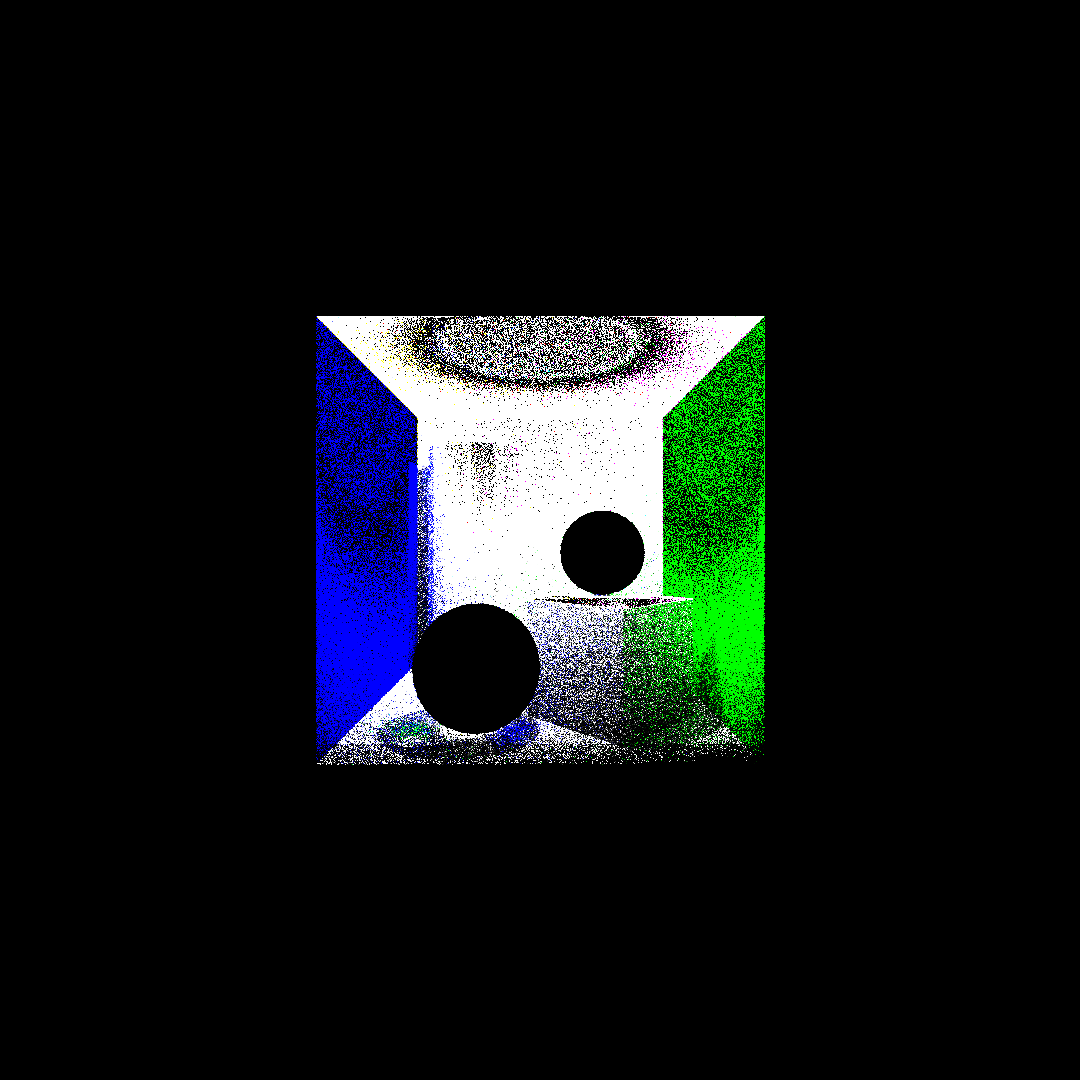
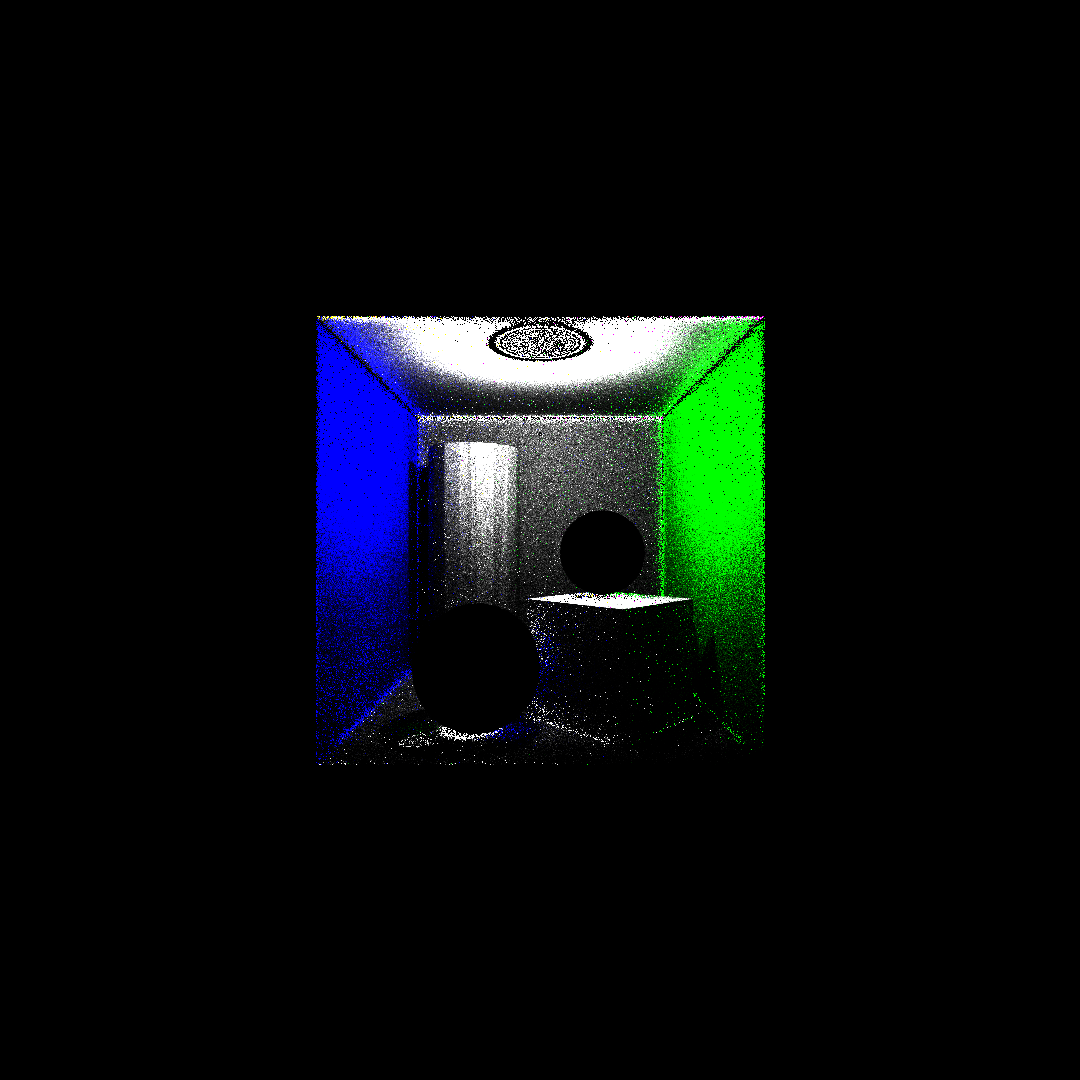
normalize light path camera sampling values now consider the G factor in the light transport equation

Changed region(s): [[0.275, 0.275, 0.7333, 0.7028]]

diff --git a/SourceCode/CRTPathtracer.cpp b/SourceCode/CRTPathtracer.cpp
@@ -205,11 +205,13 @@ std::vector<PathVertex> CRTPathtracer::getLigthPath(const CRTLight& light) const
 	vert.point = light.getPosition();
 	lightPath.push_back(vert);
 	int depth = 0;
+	float cosEmitting = 1.0f;
 	CRTVector randomDir = randomSphereSample();
 	CRTRay currRay{ light.getPosition(), randomDir, RayType::LIGHT, 0 };
 	while (depth < LIGHT_PATH_LENGHT) {
 		Intersection ix = rayTraceAccelerated(currRay);
 		if (ix.hitObjectIndex == INVALID_IND) return lightPath;
+		vert.normal = scene->getMaterial(ix.materialIndex).smoothShading ? ix.smoothNormal : ix.faceNormal;
 		vert.w_i = currRay.direction;
 		vert.point = ix.hitPoint;
 		currRay.depth++;
@@ -217,12 +219,15 @@ std::vector<PathVertex> CRTPathtracer::getLigthPath(const CRTLight& light) const
 		CRTVector color;
 		float probability;
 		spawnRay(ix, currRay.direction, currRay, color, probability);
-		vert.w_o = currRay.direction;
-		vert.color *= color;
 		if (probability <= 0) return lightPath;
+
+		vert.w_o = currRay.direction;
+		// color here can be precalculated, since we know for sure what the light path looks like
+		vert.color *= color * abs(dot(vert.w_i, vert.normal)) * cosEmitting / (ix.t * ix.t);
+		cosEmitting = abs(dot(vert.w_o, vert.normal));
 		if (scene->getMaterial(ix.materialIndex).type == CRTMaterialType::DIFFUSE)
 		{
-			vert.normal = scene->getMaterial(ix.materialIndex).smoothShading ? ix.smoothNormal : ix.faceNormal;
+			// we can only modify the diffuse hits with "randomness"
 			lightPath.push_back(vert);
 		}
 		depth++;
@@ -313,6 +318,7 @@ CRTVector CRTPathtracer::computeColor(const CRTRay& cameraRay, CRTImage& image) 
 	for (int i = 0; i < cameraPath.size(); i++) {
 		for (auto& light : scene->getLights()) {
 			std::vector<PathVertex> lightPath = getLigthPath(light);
+			float mult = 1.0f / (cameraPath.size() * lightPath.size());
 			//finalColor += directIllumination(cameraPath[i], light);
 
 			for (int j = 1; j < lightPath.size(); j++) {
@@ -327,7 +333,7 @@ CRTVector CRTPathtracer::computeColor(const CRTRay& cameraRay, CRTImage& image) 
 				if (ix.triangleIndex != NO_HIT_INDEX && ix.hitPoint == lightPath[j].point) {
 					cameraRay.type = RayType::SHADOW; // to avoid backface culling with image plane
 					auto pixelProjection = scene->getCamera().getRayHitpoint(cameraRay);
-					image[pixelProjection.second][pixelProjection.first] += lightPath[j].color;
+					image[pixelProjection.second][pixelProjection.first] += lightPath[j].color * mult;
 				}	
 			}
 		}

diff --git a/SourceCode/CRTPathtracer.h b/SourceCode/CRTPathtracer.h
@@ -42,7 +42,6 @@ class CRTPathtracer : public CRTRaytracer
 
 	void renderRegion(int x, int y, int width, int height, CRTImage& output) const;
 
-	// TODO: FIXXXX
 	CRTVector computeColor(const CRTRay& cameraRay, CRTImage& image) const;
 	CRTVector directIllumination(const PathVertex& data, const CRTLight& light) const;
 	CRTVector computePathColor(const std::vector<PathVertex>& cameraPath, int cameraNode, const std::vector<PathVertex>& lightPath, int lightNode) const;
